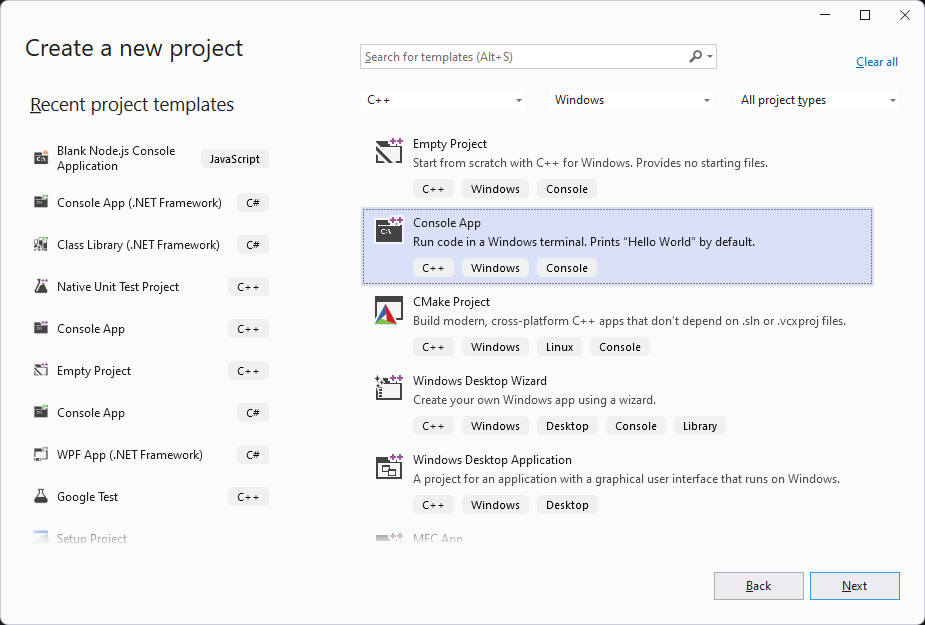
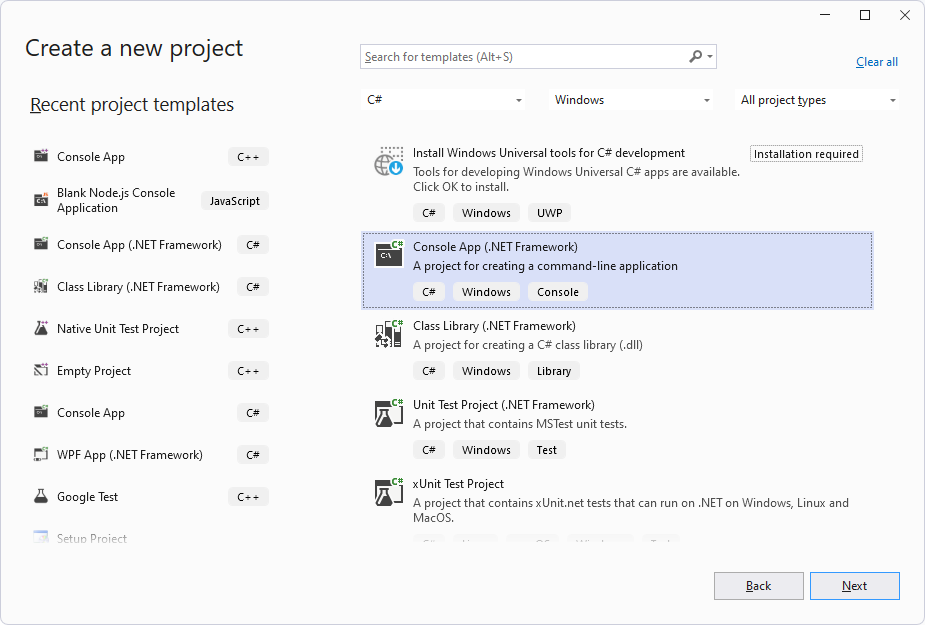
updated .net api images

diff --git a/dotnet-api/unicorn-dotnet-api.md b/dotnet-api/unicorn-dotnet-api.md
@@ -24,23 +24,32 @@ API
 
 ## Setting up a project using Visual Studio 2022
 1. Open Visual Studio 2022.
-2. Create a new C# Console application (File → New → Project → Visual C#).
-<br/><br/>
+2. Create a new C# Console application (Console App (.NET Framework)).
+<br/>
 <p align="center">
 <img src="./img/dotnetapi1.png" alt="drawing" width="750"/><br/>
 </p>
-<br/><br/>
 <p align="center">
 <img src="./img/dotnetapi2.png" alt="drawing" width="750"/><br/>
 </p>
 
 3. Open the Configuration Manager and set the “Active solution platform” and project “Platform” to “x64”
-4. Open the project properties dialog (Project → Properties).
-5. Set the target framework to “.NET Framework 4.8”.
-6. Select “Add Reference” by right clicking “References” in the Solution Explorer
-<br/><br/>
+<br/>
 <p align="center">
 <img src="./img/dotnetapi3.png" alt="drawing" width="750"/><br/>
+</p>
+
+4. Open the project properties dialog (Project → Properties).
+5. Set the target framework to “.NET Framework 4.8”.
+<br/>
+<p align="center">
+<img src="./img/dotnetapi4.png" alt="drawing" width="750"/><br/>
+</p>
+
+6. Select “Add Reference” by right clicking “References” in the Solution Explorer
+<br/>
+<p align="center">
+<img src="./img/dotnetapi5.png" alt="drawing" width="350"/><br/>
 </p>
 
 7. Browse to the library path of the Unicorn .NET API (by default C:\Users\<username>\Documents\gtec\Unicorn Suite\Hybrid Black\Unicorn DotNet\Lib) and add “UnicornDotNet.dll” as reference.
@@ -61,11 +70,6 @@ namespace UnicornNetAcquisitionExample
 }
  ```
 
-<br/><br/>
-<p align="center">
-<img src="./img/dotnetapi4.png" alt="drawing" width="750"/><br/>
-</p>
-
 9.  You must copy the native Unicorn library (by default C:\Users\<username>\Documents\gtec\Unicorn Suite\Hybrid Black\Unicorn DotNet\Lib\Unicorn.dll) to the execution folder of the C# application. This can be done manually or within the “Build Events” by adding the following ines to the Pre- or Post-build event command Lines
 
 ```
@@ -78,7 +82,7 @@ DotNet\Lib\Unicorn.dll" "$(TargetDir)"
 To perform a data acquisition using the Unicorn .NET API, a defined command execution order is required.
 
 <p align="center">
-<img src="./img/acquisition_loop.svg" alt="drawing" width="350"/><br/>
+<img src="./img/acquisition_loop.svg" alt="drawing" width="300"/><br/>
 </p>
 
 1.  Before connecting to a Unicorn device, it is possible to check the operating environment of Unicorn devices and to discover available devices.
